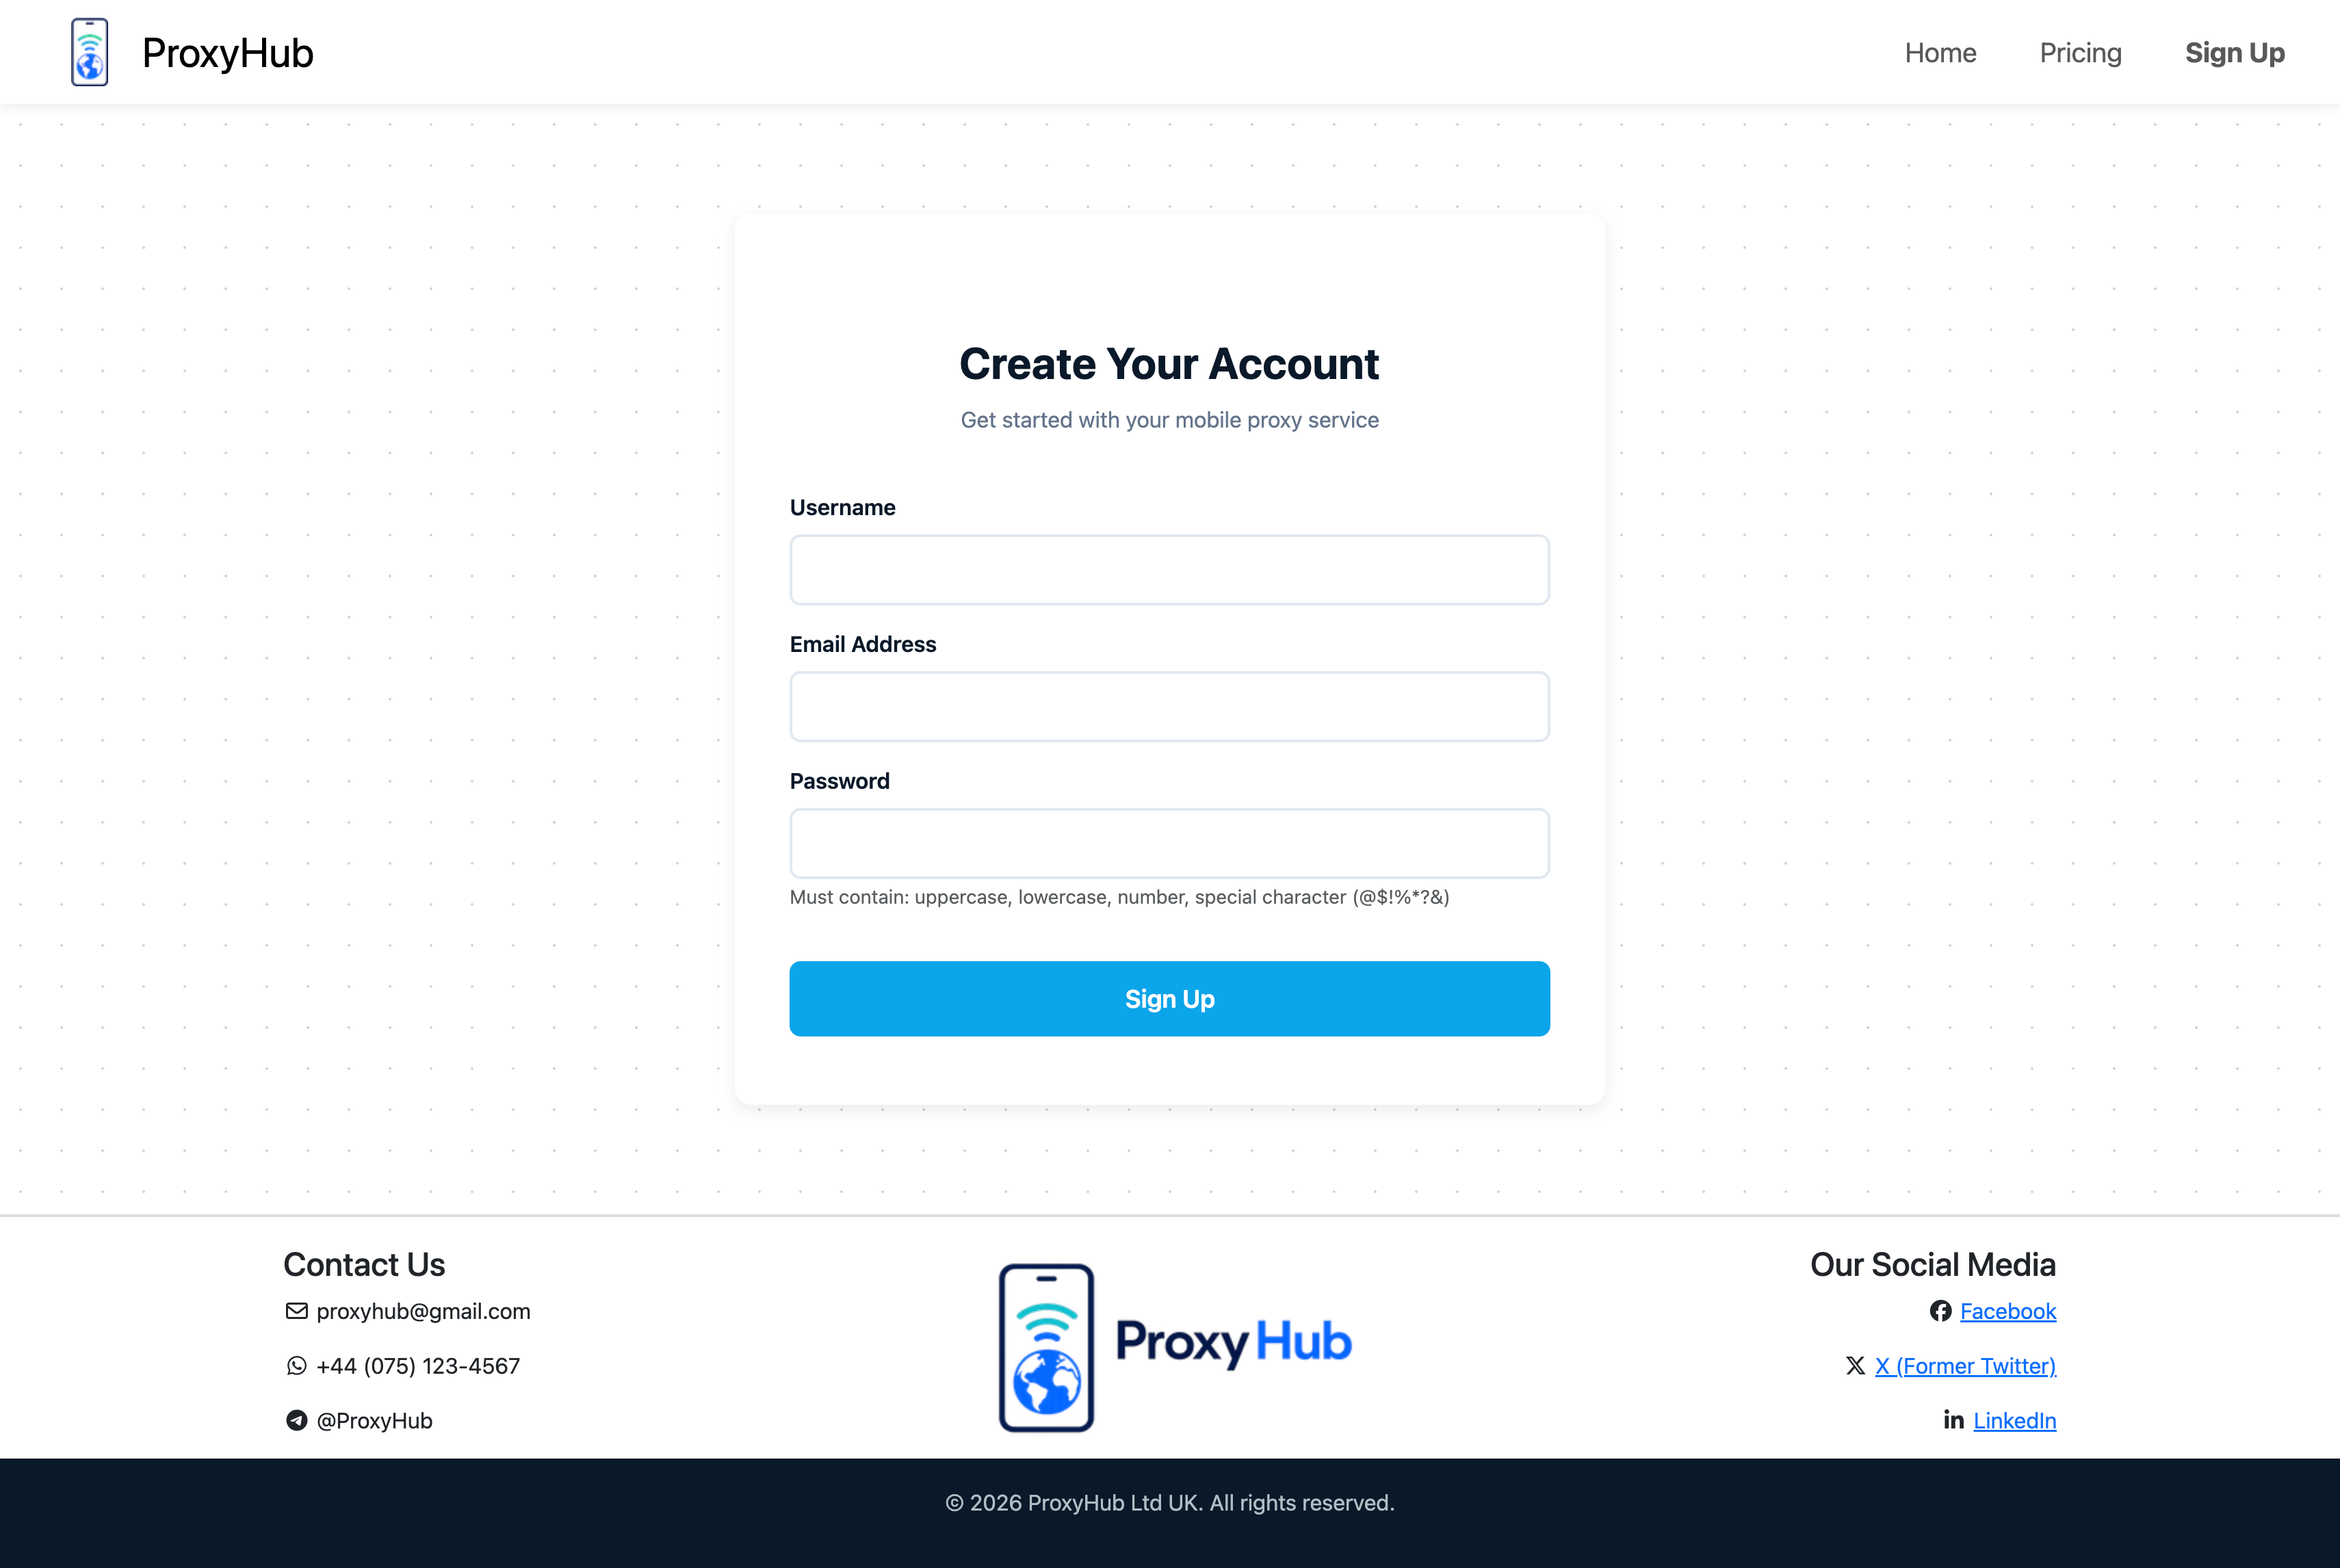
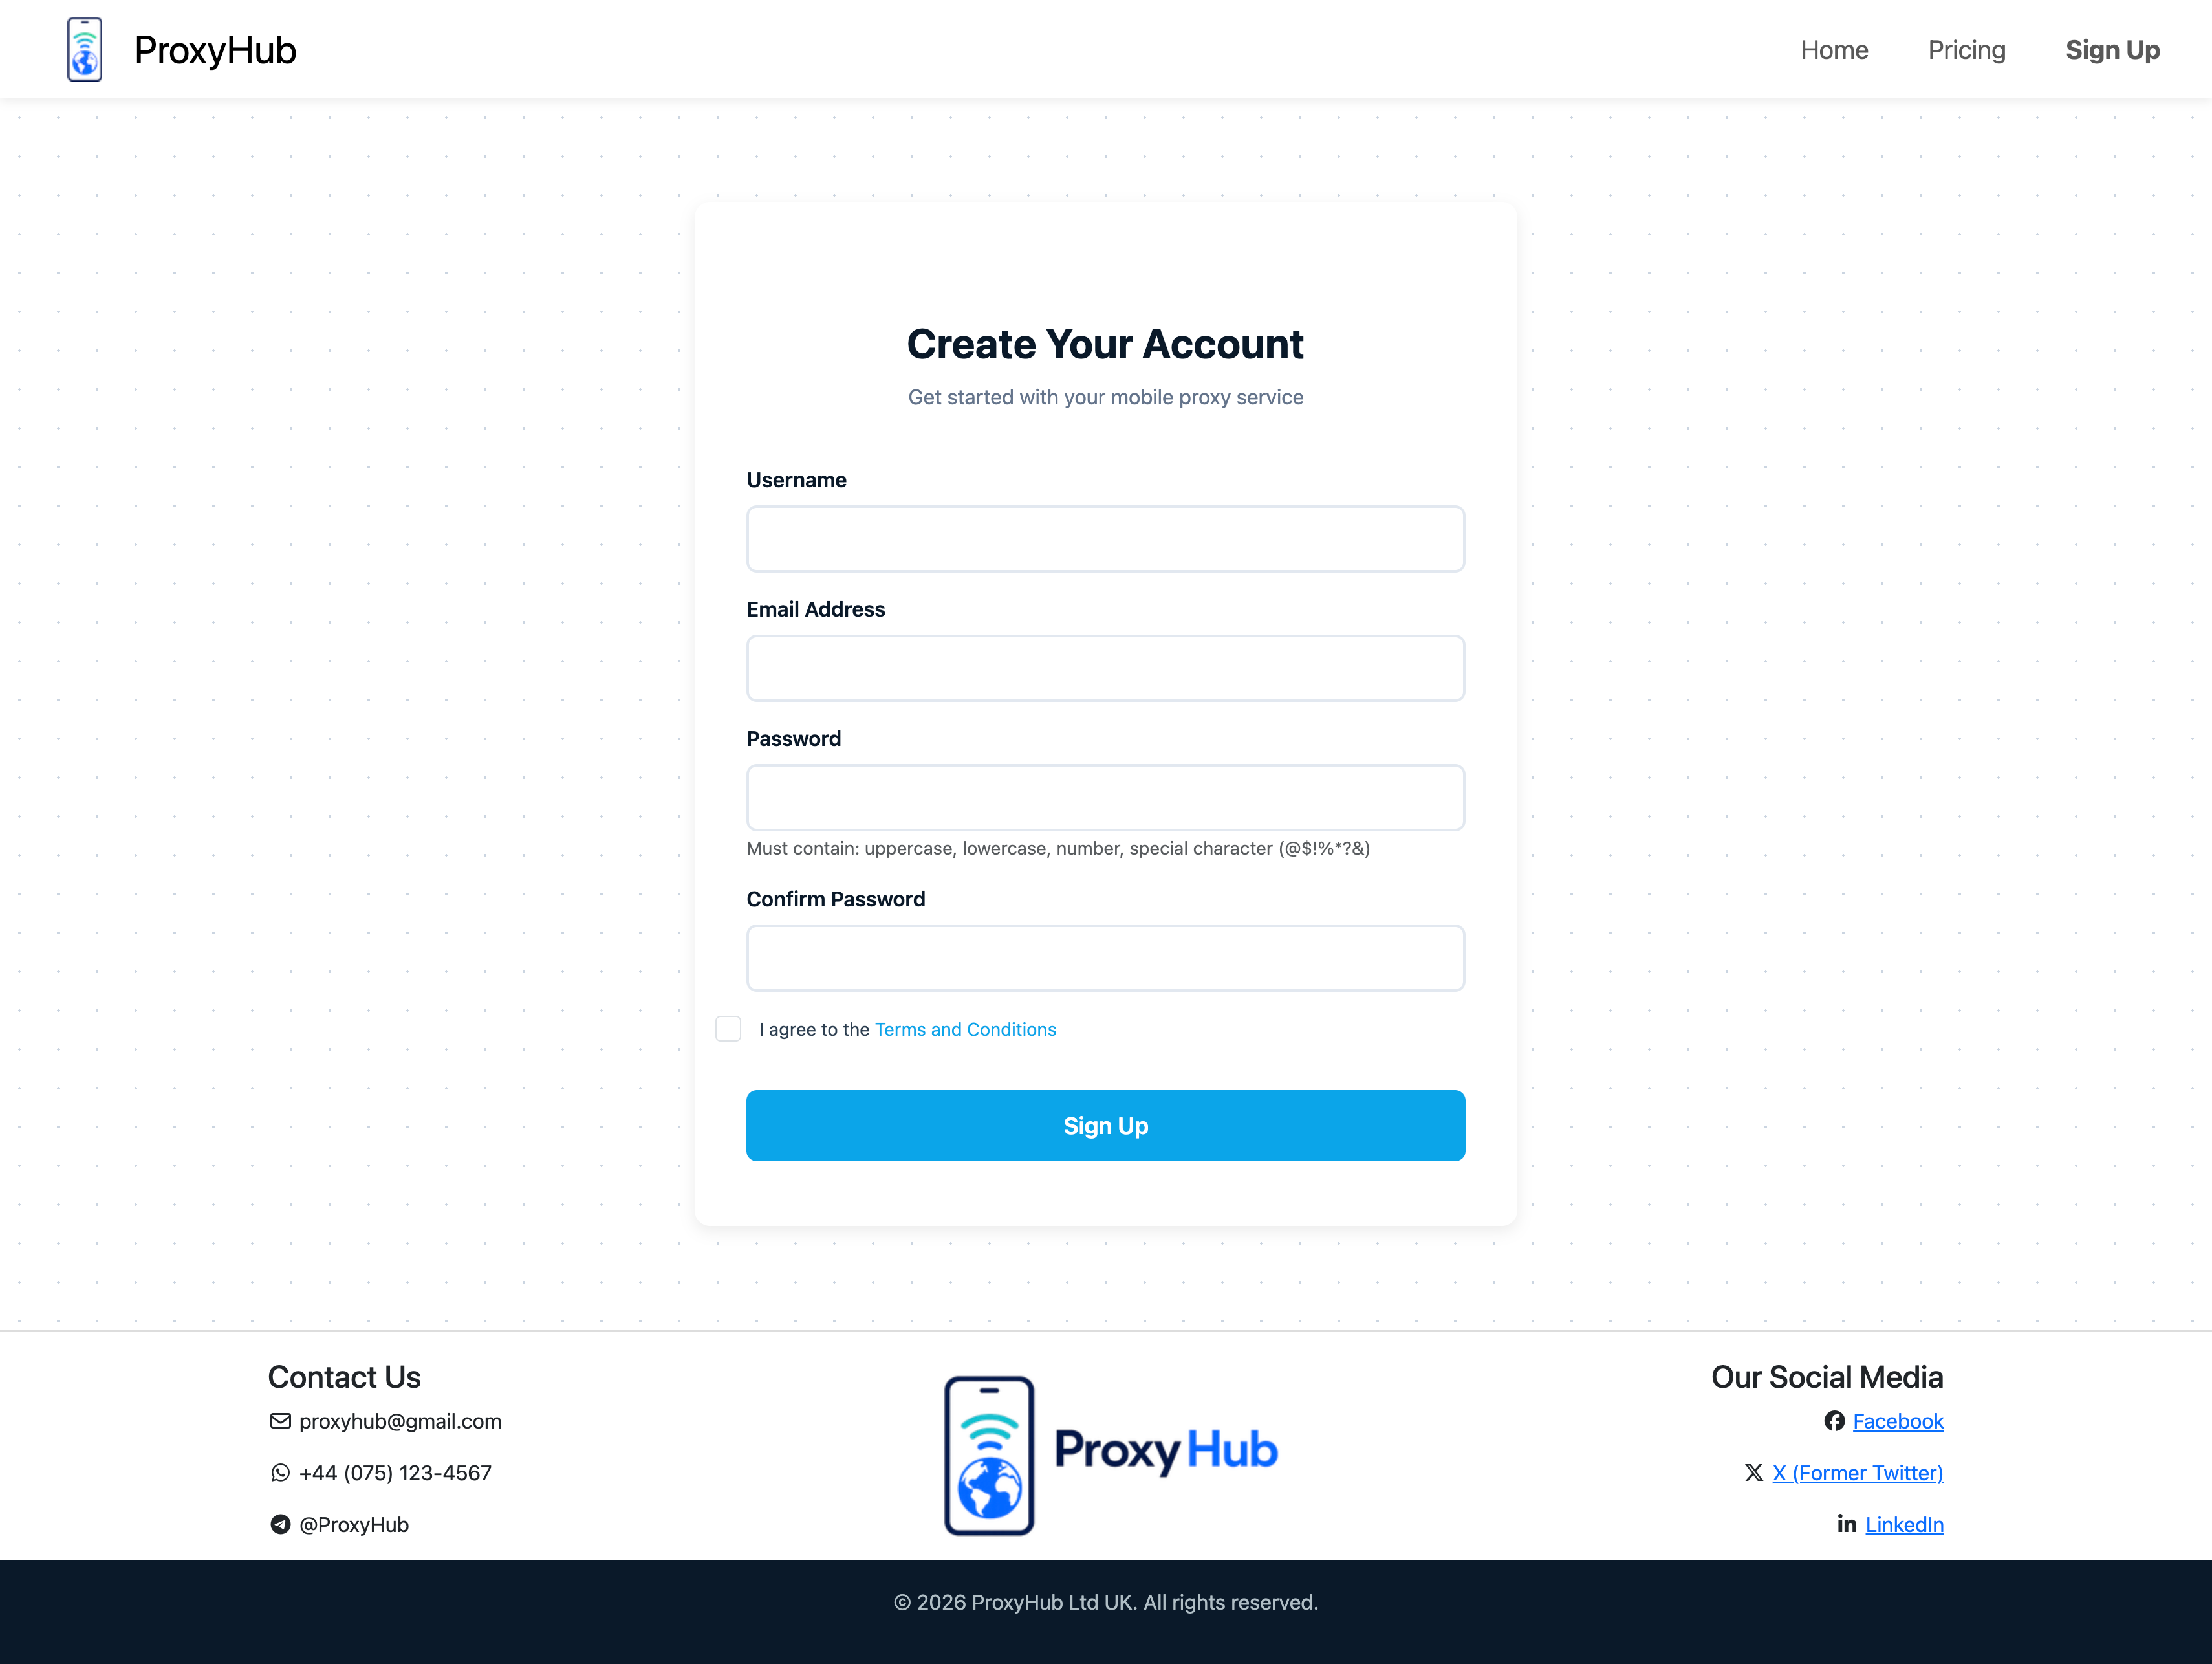
readme file new information added

diff --git a/assets/css/style.css b/assets/css/style.css
@@ -123,7 +123,8 @@
     padding: 80px 0;
 }
 
-.pricing-section h2 {
+.pricing-section h2,
+.testimonials-section h2 {
     text-align: center;
     font-size: 36px;
     font-weight: 700;
@@ -269,12 +270,6 @@
 }
 
 /* ===== FOOTER ===== */
-.footer {
-    display: flex;
-    justify-content: space-between;
-    margin: 50px;
-}
-
 footer {
     text-align: center;
     padding: 20px 0;
@@ -394,21 +389,6 @@ footer {
     background-color: #f8f9fa; /* Light gray background */
     padding-bottom: 80px;
     padding-top: 20px;
-}
-
-.testimonials-section h2 { /* "What Our Clients Say" heading */
-    text-align: center;
-    font-size: 36px;
-    font-weight: 700;
-    color: #0a1929;
-    margin-bottom: 10px;
-}
-
-.testimonials-section .section-subtitle { /* Subtitle under heading */
-    text-align: center;
-    font-size: 18px;
-    color: #64748b;
-    margin-bottom: 50px;
 }
 
 .carousel { /* Carousel container */

diff --git a/README.md b/README.md
@@ -2,48 +2,226 @@
 
 Professional B2B website offering UK-based mobile proxies for market research, ad verification, and web scraping.
 
+## Table of Contents
+- [Live Site](#live-site)
+- [User Stories](#user-stories)
+- [Features](#features)
+- [Screenshots](#screenshots)
+- [Technologies](#technologies)
+- [File Structure](#file-structure)
+- [Deployment](#deployment)
+- [Testing](#testing)
+- [AI Usage](#ai-usage)
+- [Credits](#credits)
+- [Author](#author)
+
+---
+
 ## Live Site
 https://artem-builds.github.io/proxy-hub/
 
+---
+
+## User Stories
+
+### 1. Homepage Hero (MVP)
+**As a** business owner  
+**I want to** immediately understand what mobile proxies are  
+**So that** I can decide if this service fits my needs
+
+**Acceptance Criteria:**
+- Clear headline and explanation visible above the fold
+- CTA button links to sign-up page
+- Responsive layout on all devices
+
+---
+
+### 2. Pricing Table (MVP)
+**As a** potential customer  
+**I want to** see all pricing options clearly  
+**So that** I can choose a plan within my budget
+
+**Acceptance Criteria:**
+- All 4 plans displayed with prices
+- Features listed for each plan
+- No hidden information
+
+---
+
+### 3. Contact Form (MVP)
+**As a** user  
+**I want to** submit my details easily  
+**So that** I can get started with the service
+
+**Acceptance Criteria:**
+- Form includes all required fields
+- Real-time validation shows errors
+- Password strength requirements enforced
+- Passwords must match
+- Terms and conditions must be accepted
+
+---
+
+### 4. Navigation Menu (MVP)
+**As a** visitor  
+**I want to** navigate between pages easily  
+**So that** I can find information quickly
+
+**Acceptance Criteria:**
+- Nav bar visible on all pages
+- Links work correctly
+- Active page highlighted
+- Mobile menu functions properly
+
+---
+
+### 5. Benefits Section
+**As a** business user  
+**I want to** understand the advantages  
+**So that** I can justify the purchase decision
+
+**Acceptance Criteria:**
+- 4 key benefits listed clearly
+- Custom icons support each benefit
+- Section visible on homepage
+
+---
+
+### 6. Testimonials Carousel
+**As a** potential customer  
+**I want to** read reviews from other clients  
+**So that** I can trust the service quality
+
+**Acceptance Criteria:**
+- Carousel displays 4 testimonials
+- Auto-rotates every 5 seconds
+- Manual navigation with arrows and dots
+- Responsive on mobile devices
+
+---
+
 ## Features
-- **Homepage:** Hero section, benefits showcase, CTA to pricing
-- **Pricing Page:** 4 pricing tiers (Free Trial, Starter, Professional, Enterprise)
-- **Sign Up:** Registration form with HTML5 validation
-- **Responsive Design:** Mobile-first using Bootstrap 5.3
+
+### Homepage (index.html)
+- **Hero Section:** Clear value proposition with CTA button
+- **What Are Mobile Proxies:** Educational section explaining the service and use cases
+- **Benefits Showcase:** 4 key benefits with custom icons (UK-based IPs, residential networks, 24/7 support, fast connections)
+- **Testimonials Carousel:** Client reviews with auto-rotation and manual controls
+- **CTA Section:** Call-to-action directing users to pricing page
+
+### Pricing Page (pricing.html)
+- **4 Pricing Tiers:** Free Trial, Starter, Professional (Most Popular), Enterprise
+- **Custom Icons:** Unique icon for each plan
+- **Feature Comparison:** Clear list of features for each tier
+- **Dot Pattern Background:** Subtle visual interest
+- **Responsive Cards:** Hover effects and mobile-optimized layout
+
+### Sign Up Page (signup.html)
+- **Registration Form:** Username, email, password fields
+- **HTML5 Validation:** Email format checking
+- **Password Strength:** Requires 8+ characters, uppercase, number, special character
+- **Password Matching:** Confirms both passwords match
+- **Terms & Conditions:** Modal window with full terms, required checkbox
+- **Success Message:** Confirmation after successful registration
+- **Responsive Design:** Mobile-friendly form layout
+
+### Navigation & Footer
+- **Sticky Navigation:** Fixed navbar with logo and page links
+- **Mobile Menu:** Hamburger menu for small screens
+- **Footer:** Contact information, social media links, logo
+- **Copyright Section:** Standard footer bar
+
+---
 
 ## Screenshots
 
-### Homepage
-![Homepage](assets/images/screenshots/home_page.png)
+### Desktop Views
 
-### Pricing Page
+#### Homepage
+![Homepage Hero](assets/images/screenshots/home_page.png)
+
+#### Pricing Page
 ![Pricing Page](assets/images/screenshots/pricing.png)
 
-### Sign Up Form
+#### Sign Up Form
 ![Sign Up](assets/images/screenshots/sign_up.png)
 
-## Technologies
-- HTML5
-- CSS3
-- Bootstrap 5.3
-- Font Awesome
+### Mobile Views
 
-## Deployment
-Platform: GitHub Pages  
-Steps: Pushed to GitHub → Enabled Pages → Deployed
+#### Mobile Homepage
+![Mobile Homepage](assets/images/screenshots/mobile_homepage.png)
+
+#### Mobile Pricing
+![Mobile Pricing](assets/images/screenshots/mobile_pricing.png)
+
+#### Mobile Sign Up
+![Mobile Sign Up](assets/images/screenshots/mobile_signup.png)
+
+---
+
+## Technologies
+
+- **HTML5** - Semantic markup structure
+- **CSS3** - Custom styling with flexbox, transitions, animations
+- **Bootstrap 5.3** - Responsive framework for layout and components
+- **JavaScript** - Form validation and user interactions
+- **Font Awesome 6.4** - Icons for UI elements
+- **Google Fonts** - Poppins font family
+
+---
+
 
 ## Testing
-- HTML/CSS validated with W3C validators
-- Tested on Chrome, Firefox, Safari, Edge
-- Responsive tested on desktop, tablet, mobile
 
+### Code Validation
+- **HTML:** Validated using [W3C Markup Validator](https://validator.w3.org/)
+- **CSS:** Validated using [W3C CSS Validator (Jigsaw)](https://jigsaw.w3.org/css-validator/)
+- **Results:** [Add validation status - Pass/Minor warnings]
 
-**Key learnings:** AI sped up development significantly, but required clear instructions and manual testing. Focused on requirements and design decisions while AI handled boilerplate code.
+### Browser Testing
+Tested and verified on:
+- **Google Chrome** (latest) - Primary testing browser
+- **Mozilla Firefox** (latest) - Full functionality confirmed
+- **Safari** (latest) - Webkit rendering verified
+- **Microsoft Edge** (latest) - Chromium compatibility confirmed
+
+### Responsive Testing
+Tested across multiple screen sizes:
+- **Desktop:** 1920x1080, 1366x768 - Full layout with all features
+- **Tablet:** 768x1024 (iPad) - 2-column layouts, collapsible navigation
+- **Mobile:** 375x667 (iPhone), 414x896 (iPhone Plus) - Single column, touch-optimized
+
+### Form Validation Testing
+- Email format validation ✓
+- Password strength requirements ✓
+- Password matching ✓
+- Terms and conditions checkbox ✓
+- Success message display ✓
+- Form reset after submission ✓
+
+---
 
 ## Credits
-- Bootstrap: getbootstrap.com
-- Icons: AI-generated (ChatGPT/DALL-E)
-- Fonts: Google Fonts (Poppins)
+
+- **Logo Design:** AI-generated using ChatGPT DALL-E
+- **Custom Icons:** AI-generated with detailed prompts (mobile proxies, benefits, pricing tiers)
+- **Hero Background:** AI-generated illustration with network/satellite theme
+- **Bootstrap Framework:** [getbootstrap.com](https://getbootstrap.com/)
+- **Font Awesome Icons:** [fontawesome.com](https://fontawesome.com/)
+- **Google Fonts (Poppins):** [fonts.google.com](https://fonts.google.com/)
+
+---
 
 ## Author
-Artem Tkachenko - May 2026
+
+**Artem**  
+AI Augmented FullStack Bootcamp - HTML/CSS/Bootstrap Individual Project  
+May 2026
+
+GitHub Repository: [github.com/artem-builds/proxy-hub](https://github.com/artem-builds/proxy-hub)
+
+---
+
+## License
+
+This project is for educational purposes as part of a bootcamp assignment.